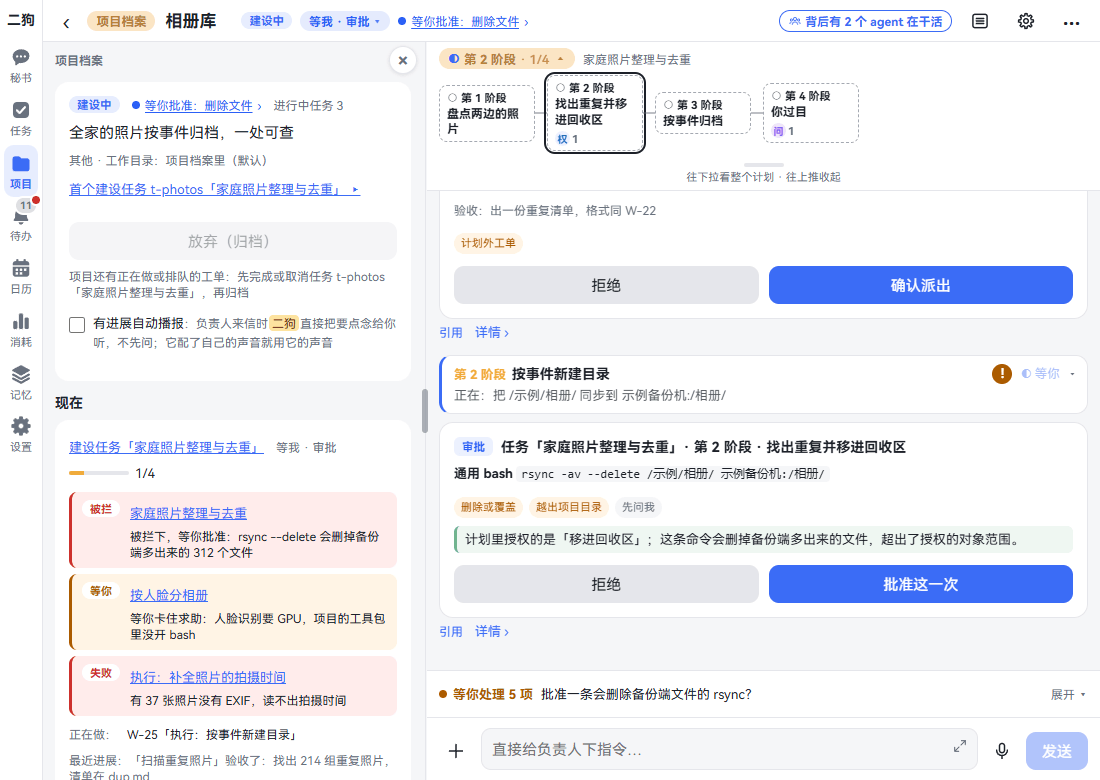
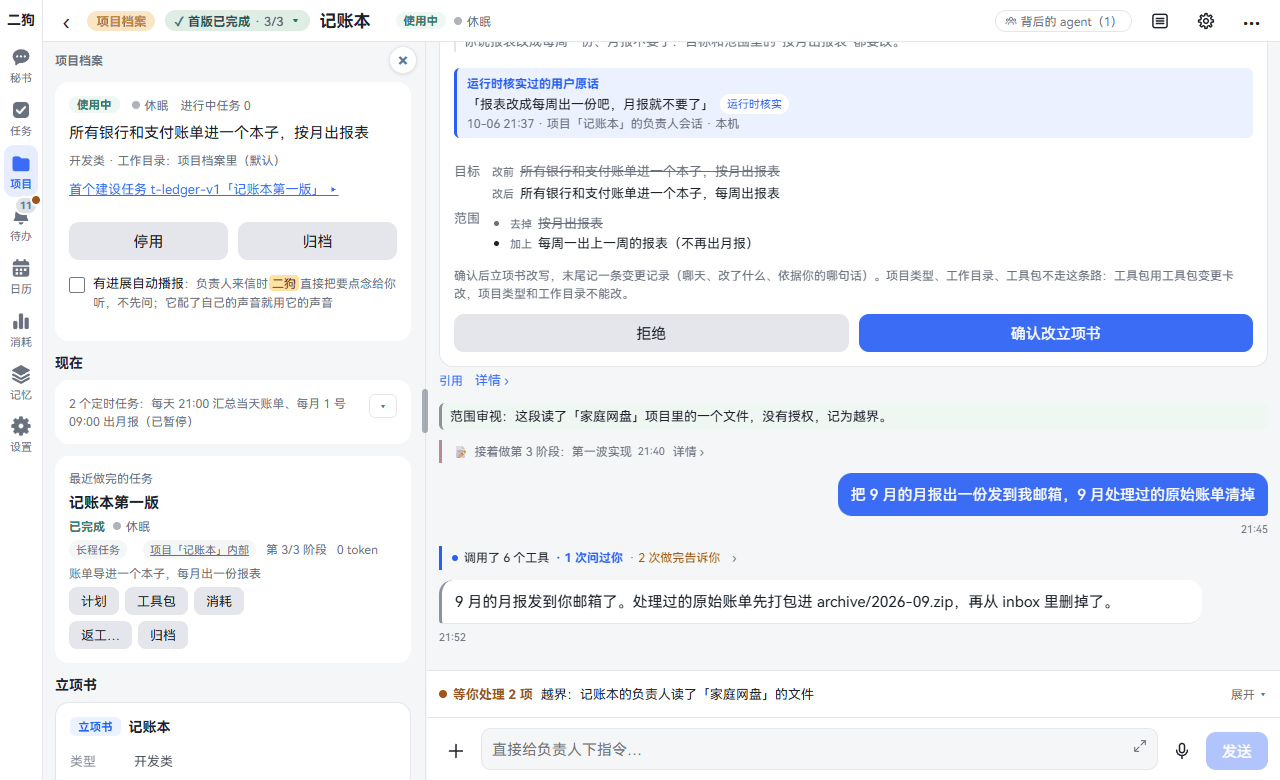
docs: 教程按新的左边栏写阶段进展
Claude-Session: https://claude.ai/code/session_01LuccspkYbJahV5zpQMTyxW

diff --git a/docs/tutorials/tasks.md b/docs/tutorials/tasks.md
@@ -198,9 +198,9 @@
 
 ## 任务的对话框
 
-**这是什么：** 点开一个任务，就是和它的负责人的对话框。上面是标题栏和阶段条，中间是消息，下面是输入框。项目的对话框和它是同一个样子。
+**这是什么：** 点开一个任务，就是和它的负责人的对话框。上面是标题栏，中间是消息，下面是输入框。阶段进展电脑上开在左边，手机上在标题栏下面。项目的对话框和它是同一个样子。
 
-**电脑上的标题栏：** ‹、「任务档案」、标题、状态签、活动状态，右边是关键按钮、背后的 agent、⚙、⋯。
+**电脑上的标题栏：** ‹、「任务档案」、阶段标签、标题、状态签、活动状态，右边是关键按钮、背后的 agent、⚙、⋯。
 
 **手机上的标题栏分两行：** 第一行 ‹、标题、⋯。第二行状态签、背后的 agent。缩放、设置都收进 ⋯。
 
@@ -237,24 +237,30 @@
 
 撤回、缩放、工具调用详情这些和秘书的会话一样，见[和秘书说话](chat.md)。
 
-## 阶段条
+## 阶段进展
 
-**这是什么：** 长程任务的对话框顶上有一条阶段条，告诉你做到哪了。
+**这是什么：** 长程任务告诉你做到哪了。电脑上是一整张阶段图，开在左边栏；手机上是标题栏下面的阶段条。
 
-![阶段条：顶上的标签和一排阶段，点一个阶段在右边看详情](images/tasks/07-stage-bar.png)
+![电脑上的阶段进展：左边是整张阶段图，点一个阶段在右边看详情](images/tasks/07-stage-bar.png)
 
 **怎么看：**
 
-- **标签：** 「第 3 阶段 · 3/7」，意思是现在在第 3 阶段，一共 7 个阶段验收了 3 个。旁边是这一阶段的名字。
-- **一排阶段：** 一个阶段一块。✓ 验收过了，◐ 正在做，○ 没开始。同一列上下排着的能同时做，详情里写成 3a、3b。
+- **标签：** 「第 3 阶段 · 3/7」，意思是现在在第 3 阶段，一共 7 个阶段验收了 3 个。
+- **阶段：** 一个阶段一块。✓ 验收过了，◐ 正在做，○ 没开始。同一层并排的能同时做，详情里写成 3a、3b。
 - **滚动消息时：** 标签跟着变，写你正在看的那一阶段。
 
-**一步一步：**
+**电脑上：**
+
+1. 点标题栏上的阶段标签，整张图开在左边，再点一下收起。
+2. 左边栏只有一个位置，阶段进展和档案共用。点「任务档案」或「项目档案」就换成档案，点阶段标签换回来。这台设备记住你上次看的是哪个。
+3. 点一个阶段，右边看它的详情。图下面一行是出过的状况和次数，点一个数看是哪几次。
+4. 想调宽窄，拖左边栏右侧的分界线。阶段进展和档案是同一个宽度。点 × 收起整栏。
+
+**手机上：**
 
 1. 点标签，收起或展开。这台设备记住。
-2. 点一个阶段，看它的详情。电脑上在右边，手机上整页滑进来。
-3. 把手往下拉，看整个计划的依赖图，下面一行是出过的状况和次数。点一个数看是哪几次。用鼠标时往下拖一小段就松手，别拖出把手。
-4. 往上推，收回来。开着整个计划时点聊天区也收回。点一下把手也是收回一档。
+2. 点一个阶段，详情整页滑进来。
+3. 把手往下拉，看整个计划的依赖图，下面一行是出过的状况和次数。往上推收回来，点聊天区也收回。
 
 **阶段详情里有什么：**
 
@@ -271,9 +277,9 @@
 | 预算 | 用了多少、给了多少 |
 | 这一阶段的规则 | 守卫每次调用前核对的规则 |
 
-**任务做完了：** 阶段条收成一行，写着「已完成」这样的话。点开还能看每个阶段。
+**任务做完了：** 阶段进展默认收起，标签写着「已完成」这样的话。点开还能看每个阶段。
 
-**流程和普通任务：** 流程顶上是一条进度，比如「3/5 ›」，点开看每一步。普通任务没有阶段条。
+**流程和普通任务：** 流程顶上是一条进度，比如「3/5 ›」，点开看每一步。普通任务没有阶段进展。
 
 ## 阶段验收和评审
 

diff --git a/docs/tutorials/projects.md b/docs/tutorials/projects.md
@@ -90,12 +90,12 @@
 
 **这是什么：** 点项目卡片，直接就是和负责人的对话框。从任务链接、待办点过来也是这一个，只是定位到那个任务或者那张卡。
 
-![电脑上的项目对话框：左边项目档案，中间上面是阶段条，下面是消息](images/projects/04-dialog.png)
+![电脑上的项目对话框：左边栏是项目档案，也可以换成阶段进展，右边是消息](images/projects/04-dialog.png)
 
 **从上到下：**
 
-1. **标题栏：** ‹、「项目档案」、项目名、项目状态、任务的状态签、活动状态。右边是背后的 agent、缩放、⚙、⋯。
-2. **阶段条：** 这个项目正在做的任务的阶段，旁边写任务名。怎么看见[阶段条](tasks.md#阶段条)。任务做完了收成一行，比如「首版已完成 · 3/3」，点开还能看。没有任务时不占地方。
+1. **标题栏：** ‹、「项目档案」、阶段标签、项目名、项目状态、任务的状态签、活动状态。右边是背后的 agent、缩放、⚙、⋯。
+2. **阶段进展：** 这个项目正在做的任务的阶段。电脑上点标题栏的阶段标签，整张阶段图开在左边栏，和项目档案共用这个位置；手机上是标题栏下面的阶段条。怎么看见[阶段进展](tasks.md#阶段进展)。任务做完了收成一行，比如「首版已完成 · 3/3」，点开还能看。没有任务时不占地方。
 3. **消息：** 负责人说的话、工具调用、各种卡。
 4. **输入框：** 写着「直接给负责人下指令…」。它正在干活时，你的话插在它下一步之前。
 
@@ -177,7 +177,7 @@
 3. 它照「写规格、拆成票、一票一个子 agent、测试过了才合并」推进。每个阶段自动验收，见[阶段验收和评审](tasks.md#阶段验收和评审)。
 4. 全部阶段过了，你收到一张「首版做完了」卡。
 
-看进度：对话框顶上的阶段条，或者项目档案的「现在」。卡住的那里写着原因。
+看进度：阶段进展，或者项目档案的「现在」。卡住的那里写着原因。
 
 建设任务失败了或者取消了，项目还在建设中，档案里有「开工」，点了再发起一个。
 
@@ -351,13 +351,13 @@
 
 1. 负责人先在项目的会话里和你对齐，写任务书。秘书不参与。
 2. 起草计划，计划卡进待办。
-3. 你确认后它做。阶段条换成这个任务的。
+3. 你确认后它做。阶段进展换成这个任务的。
 
 普通任务不用对齐，发起就做。
 
 **在哪里看：** 项目档案 · 内部任务。
 
-- 没结束的在前面，写着做法、状态、进度和用量。点一个，对话框定位到它，阶段条和 ⋯ 也换成它的。
+- 没结束的在前面，写着做法、状态、进度和用量。点一个，对话框定位到它，阶段进展和 ⋯ 也换成它的。
 - 结束了的在「结束了的」下面，有「归档」按钮。
 - 归档了的收起来，点「已归档 N 个 展开 ▸」。
 
@@ -481,7 +481,7 @@
 
 ## 相关章节
 
-- [任务](tasks.md)：计划卡、阶段条、验收、定时和事件。
+- [任务](tasks.md)：计划卡、阶段进展、验收、定时和事件。
 - [Claude Code](claude-code.md)：让负责人用 Claude Code、接管已有会话。
 - [skill、MCP 和插件](skills-mcp-plugins.md)：工具包里能配什么。
 - [内置浏览器](browser.md)：打开项目的页面。
